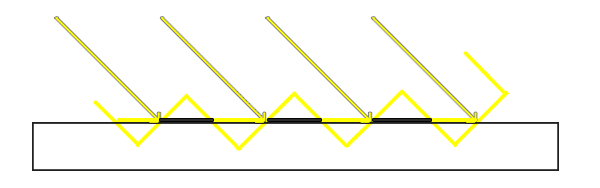
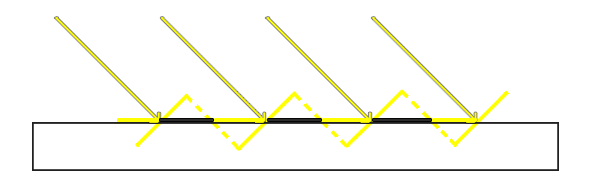
Update 2024-06-18-LearnOpenGL-AdvancedLighting-Shadows-ShadowMapping.md

diff --git a/_posts/2024-06-18-LearnOpenGL-AdvancedLighting-Shadows-ShadowMapping.md b/_posts/2024-06-18-LearnOpenGL-AdvancedLighting-Shadows-ShadowMapping.md
@@ -1,6 +1,6 @@
 ---
 title: Shadow Mapping
-description: 介绍阴影映射基础过程
+description: 阴影是光线被遮挡后在被遮挡区域出现的一种光照缺失的现象。阴影为光照场景增添了许多真实感，使观众更容易观察到物体之间的空间关系。
 date: 2024-06-18 00:00:00 +0800
 categories: [Computer Grahics, LearnOpenGL, AdvancedLighting]
 tags: [computergraphics, learnopengl, postprocess，shadow]     # TAG names should always be lowercase
@@ -398,7 +398,7 @@ With these projected coordinates we can sample the depth map as the resulting [0
 
 有了这个 [0, 1] 范围内的 projCoords，就可以对深度图进行采样。这样，我们就能获得光源视角下最近可见物体片段的深度：
 
-```
+```glsl
 float closestDepth = texture(shadowMap, projCoords.xy).r; 
 ```
 
@@ -454,25 +454,39 @@ If you did things right you should indeed see (albeit with quite a few artifacts
 
 We managed to get the basics of shadow mapping working, but as you can we're not there yet due to several (clearly visible) artifacts related to shadow mapping we need to fix. We'll focus on fixing these artifacts in the next sections.
 
+我们成功地完成了阴影贴图的基础工作，但正如你所看到的，因为存在着与阴影贴图相关的几个（清晰可见的）处理痕迹，所以现在还没有达到期望的效果。我们将在接下来的章节中重点修复这些瑕疵。
+
 ### Shadow acne
 
 It is obvious something is wrong from the previous image. A closer zoom shows us a very obvious Moiré-like pattern:
+
+从上一张图片中可以明显看出问题。近距离放大后，有非常显眼的摩尔纹：
 
 ![Acne](/assets/img/post/LearnOpenGL-AdvancedLighting-Shadows-ShadowMapping-Acne.png)
 
 We can see a large part of the floor quad rendered with obvious black lines in an alternating fashion. This shadow mapping artifact is called shadow acne and can be explained by the following image:
 
+我们可以明显的在四边形地板上看到很大一部分交替呈现的黑色线条。这种阴影映射的人工处理痕迹被称为 "阴影失真"，可以用下面的图片来解释：
+
 ![Acne Diagram](/assets/img/post/LearnOpenGL-AdvancedLighting-Shadows-ShadowMapping-AcneDiagram.png)
 
 Because the shadow map is limited by resolution, multiple fragments can sample the same value from the depth map when they're relatively far away from the light source. The image shows the floor where each yellow tilted panel represents a single texel of the depth map. As you can see, several fragments sample the same depth sample.
 
+因为阴影贴图有分辨率的限制，在距离光源比较远的情况下，多个片段可能从深度贴图的同一个坐标位置采样。上图中每个黄色斜坡代表深度图的一个像素。可以看到，地板上多个片段采样了相同的深度样本。
+
 While this is generally okay, it becomes an issue when the light source looks at an angle towards the surface as in that case the depth map is also rendered from an angle. Several fragments then access the same tilted depth texel while some are above and some below the floor; we get a shadow discrepancy. Because of this, some fragments are considered to be in shadow and some are not, giving the striped pattern from the image.
 
-We can solve this issue with a small little hack called a shadow bias where we simply offset the depth of the surface (or the shadow map) by a small bias amount such that the fragments are not incorrectly considered above the surface.
+虽然一般情况下是正常的，但当光源以一定角度照射表面时就会出现问题，因为在这种情况下，光源视角下的深度贴图也是从这个角度渲染的。这时，深度贴图的分辨率会小于场景实际分辨率，多个片段就会从同一个斜坡的深度纹理像素中采样，这些片段中有一些大于这一深度值，还有一些小于这一深度值。因此，一些片段被判断处于阴影中，而另一些片段则不在阴影中，这就产生了图片中的条纹图案，得到了一个不真实的阴影。
+
+We can solve this issue with a small little hack called a **shadow bias** where we simply offset the depth of the surface (or the shadow map) by a small bias amount such that the fragments are not incorrectly considered above the surface.
+
+我们可以用一个叫做**阴影偏置**的小技巧来解决这个问题，只需将表面的深度偏移一个小的偏置量（给表面片段的深度减去一个偏置，或给采样到的阴影贴图深度加上一个偏执），这样就不会错误地将片段判断在阴影之中。
 
 ![Acne Bias](/assets/img/post/LearnOpenGL-AdvancedLighting-Shadows-ShadowMapping-AcneBias.png)
 
 With the bias applied, all the samples get a depth smaller than the surface's depth and thus the entire surface is correctly lit without any shadows. We can implement such a bias as follows:
+
+应用偏置后，从同一深度纹理像素中采样的那些表面片段其深度都会小于采样到的深度值，因此整个表面都会被正确照亮，不会出现任何阴影。我们可以通过以下方式实现这种偏置：
 
 ```glsl
 float bias = 0.005;
@@ -481,31 +495,45 @@ float shadow = currentDepth - bias > closestDepth  ? 1.0 : 0.0;
 
 A shadow bias of 0.005 solves the issues of our scene by a large extent, but you can imagine the bias value is highly dependent on the angle between the light source and the surface. If the surface would have a steep angle to the light source, the shadows may still display shadow acne. A more solid approach would be to change the amount of bias based on the surface angle towards the light: something we can solve with the dot product:
 
+0.005 的阴影偏置量在很大程度上解决了我们场景中的问题，但可以想象到偏置量主要取决于光线和表面之间的角度。如果光线以非常倾斜的角度照射到表面，那么仍然可能会出现阴影失真。一种更可靠的方法是根据表面与光线的角度来改变偏置量：我们可以利用点积来解决这个问题：
+
 ```glsl
 float bias = max(0.05 * (1.0 - dot(normal, lightDir)), 0.005); 
 ```
 
 Here we have a maximum bias of 0.05 and a minimum of 0.005 based on the surface's normal and light direction. This way, surfaces like the floor that are almost perpendicular to the light source get a small bias, while surfaces like the cube's side-faces get a much larger bias. The following image shows the same scene but now with a shadow bias:
 
+在这里，我们根据表面的法线和光照方向，将偏置最大值设定为 0.05，最小值设定为 0.005。这样，像地板这种几乎垂直于光线的表面就会得到较小的偏置，而像立方体侧面这样的表面就会得到较大的偏置。下图显示了应用阴影偏置后的相同场景：
+
 ![With Bias](/assets/img/post/LearnOpenGL-AdvancedLighting-Shadows-ShadowMapping-WithBias.png)
 
 Choosing the correct bias value(s) requires some tweaking as this will be different for each scene, but most of the time it's simply a matter of slowly incrementing the bias until all acne is removed.
+
+因为每个场景都不尽相同，所以需要进行一些调整才能选出合适的偏置值，在大多数情况下，可以缓慢增加偏置值，直到消除所有失真现象。
 
 ### Peter panning
 
 A disadvantage of using a shadow bias is that you're applying an offset to the actual depth of objects. As a result, the bias may become large enough to see a visible offset of shadows compared to the actual object locations as you can see below (with an exaggerated bias value):
 
+使用阴影偏置的一个缺点是：在实际应该要产生阴影的位置上，因为有偏置的存在，可能导致该位置点被判断为非阴影点。因此，当偏置值变得足够大时，参照物体实际位置，可以明显看到阴影发生了一定的偏移，如下图所示（使用一个夸张的偏置值）：
+
 ![Peter Panning](/assets/img/post/LearnOpenGL-AdvancedLighting-Shadows-ShadowMapping-PeterPanning.png)
 
 This shadow artifact is called peter panning since objects seem slightly detached from their shadows. We can use a little trick to solve most of the peter panning issue by using front face culling when rendering the depth map. You may remember from the [face culling](https://learnopengl.com/Advanced-OpenGL/Face-Culling) chapter that OpenGL by default culls back-faces. By telling OpenGL we want to cull front faces during the shadow map stage we're switching that order around.
 
+这种阴影位置偏移现象被称为彼得平移，因为物体看起来与它们的阴影稍有分离。我们可以使用一个小技巧来解决大部分的彼得平移问题，那就是在渲染深度贴图时使用正面剔除。你可能还记得，在[面剔除](https://learnopengl.com/Advanced-OpenGL/Face-Culling)一章中，OpenGL 默认剔除的是背面。通过在生成阴影贴图的阶段告诉 OpenGL 剔除正面，我们就可以切换这一面剔除顺序。
+
 Because we only need depth values for the depth map it shouldn't matter for solid objects whether we take the depth of their front faces or their back faces. Using their back face depths doesn't give wrong results as it doesn't matter if we have shadows inside objects; we can't see there anyways.
+
+因为我们只需要深度图的深度值，所以对于实体物体来说，是取其正面的深度还是背面的深度并不重要。使用物体背面的深度并不会产生错误的结果，因为物体内部是否有阴影并不重要，反正我们也看不到。
 
 ![Without Culling](/assets/img/post/LearnOpenGL-AdvancedLighting-Shadows-ShadowMapping-WithoutCulling.png)
 
 ![With Culling](/assets/img/post/LearnOpenGL-AdvancedLighting-Shadows-ShadowMapping-WithCulling.png)
 
 To fix peter panning we cull all front faces during the shadow map generation. Note that you need to enable GL_CULL_FACE first.
+
+为了解决彼得平移问题，我们会在生成阴影贴图时剔除所有正面。请注意，你需要先启用 GL_CULL_FACE。
 
 ```glsl
 glCullFace(GL_FRONT);
@@ -515,19 +543,29 @@ glCullFace(GL_BACK); // don't forget to reset original culling face
 
 This effectively solves the peter panning issues, but only for solid objects that actually have an inside without openings. In our scene for example, this works perfectly fine on the cubes. However, on the floor it won't work as well as culling the front face completely removes the floor from the equation. The floor is a single plane and would thus be completely culled. If one wants to solve peter panning with this trick, care has to be taken to only cull the front faces of objects where it makes sense.
 
+这可以有效解决彼得平移问题，但只适用于拥有封闭内部的实体物体。例如，在我们的场景中，这对立方体完全有效。但是，在地板上就不行了，因为剔除正面后，地板就完全不存在了。地板是一个平面，因此会被完全删除。如果想用这一技巧解决彼得平移问题，就必须注意只在有意义的地方去使用正面剔除。
+
 Another consideration is that objects that are close to the shadow receiver (like the distant cube) may still give incorrect results. However, with normal bias values you can generally avoid peter panning.
+
+另一个要考虑的点是，靠近阴影接收器的物体（如远处的立方体）可能仍然会产生不正确的结果。不过，如果使用恰当的偏置值，一般可以避免彼得平移。
 
 ### Over sampling
 
 Another visual discrepancy which you may like or dislike is that regions outside the light's visible frustum are considered to be in shadow while they're (usually) not. This happens because projected coordinates outside the light's frustum are higher than 1.0 and will thus sample the depth texture outside its default range of [0,1]. Based on the texture's wrapping method, we will get incorrect depth results not based on the real depth values from the light source.
 
+另一个与现实情况不一致的视觉差异是，光源可见视锥体以外的区域被看作位于阴影当中，但实际上它们（通常）并不是。出现这种问题的原因是，光源视锥体之外的投影坐标大于 1.0，使用这样的坐标去采样深度纹理，会超出其默认的 [0, 1] 范围。根据纹理的环绕方式，我们会得到不正确的深度结果，而不是基于光源的真实深度值。
+
 ![Outside Frustum](/assets/img/post/LearnOpenGL-AdvancedLighting-Shadows-ShadowMapping-OutsideFrustum.png)
 
 You can see in the image that there is some sort of imaginary region of light, and a large part outside this area is in shadow; this area represents the size of the depth map projected onto the floor. The reason this happens is that we earlier set the depth map's wrapping options to GL_REPEAT.
 
+从图像中可以看到，光照辐射了一个区域，而该区域外的很大一部分处于阴影中；该区域代表了投射到地板上的深度贴图的大小。出现这种情况的原因是我们之前将深度贴图的环绕方式设置为了 GL_REPEAT。
+
 What we'd rather have is that all coordinates outside the depth map's range have a depth of 1.0 which as a result means these coordinates will never be in shadow (as no object will have a depth larger than 1.0). We can do this by configuring a texture border color and set the depth map's texture wrap options to GL_CLAMP_TO_BORDER:
 
-```c
+我们更希望深度贴图范围之外的所有坐标的深度都是 1.0，这意味着这些坐标永远不会出现在阴影中（因为没有物体的深度会大于 1.0）。我们可以通过配置纹理边框颜色并将深度贴图的纹理环绕方式设置为 GL_CLAMP_TO_BORDER 来实现这一点：
+
+```c++
 glTexParameteri(GL_TEXTURE_2D, GL_TEXTURE_WRAP_S, GL_CLAMP_TO_BORDER);
 glTexParameteri(GL_TEXTURE_2D, GL_TEXTURE_WRAP_T, GL_CLAMP_TO_BORDER);
 float borderColor[] = { 1.0f, 1.0f, 1.0f, 1.0f };
@@ -536,6 +574,8 @@ glTexParameterfv(GL_TEXTURE_2D, GL_TEXTURE_BORDER_COLOR, borderColor);
 
 Now whenever we sample outside the depth map's [0,1] coordinate range, the texture function will always return a depth of 1.0, producing a shadow value of 0.0. The result now looks more plausible:
 
+现在，每当我们在深度图的 [0, 1] 坐标范围外采样时，纹理采样函数将始终返回 1.0 的深度，从而产生 0.0 的阴影值。现在的结果看起来更合理了：
+
 ![Clamp Edge](/assets/img/post/LearnOpenGL-AdvancedLighting-Shadows-ShadowMapping-ClampEdge.png)
 
 > 在计算片段是否是阴影点时，若该片段是以光源为视角的视图体范围之外的场景片段，那么其在光源视图体内裁剪坐标是超出 [-w, w] 范围之外的（正射视图 w = 1.0），从光源视角的场景深度图采样深度值的时候，裁剪坐标转换到纹理坐标会超出 [0.0, 1.0] 范围之外，超出纹理范围之外 OpenGL 默认的行为是重复这个纹理图像进行采样，光源视图体区域外就会有一些地方显示阴影不正确的情况。其实在以光源为视角的视图体范围之外的片段应该处理为非阴影点，所以我们更希望所有超出深度图范围的坐标的采样返回值是 1.0，因此可以设置纹理边框颜色 z 分量为 1.0，并设置纹理环绕方式为超出坐标为用户指定的边缘颜色 GL_CLAMP_TO_BORDER。这一步限制的是采样深度图后返回的深度值。
@@ -543,11 +583,17 @@ Now whenever we sample outside the depth map's [0,1] coordinate range, the textu
 
 There seems to still be one part showing a dark region. Those are the coordinates outside the far plane of the light's orthographic frustum. You can see that this dark region always occurs at the far end of the light source's frustum by looking at the shadow directions.
 
+似乎仍有一部分显示为黑暗区域。这些是光源正交视锥体远平面外的坐标。通过阴影方向可以看到，这个黑暗区域总是出现在光源视锥体的远端。
+
 A light-space projected fragment coordinate is further than the light's far plane when its z coordinate is larger than 1.0. In that case the GL_CLAMP_TO_BORDER wrapping method doesn't work anymore as we compare the coordinate's z component with the depth map values; this always returns true for z larger than 1.0.
+
+当片段被投影到光源空间后，如果它的坐标的 z 分量大于 1.0，该坐标会比光源的远平面更远。在这种情况下，GL_CLAMP_TO_BORDER 环绕方式将不再起作用，因为我们要将坐标的 z 分量与深度贴图中的深度值进行比较；当 z 大于 1.0 时，返回值总是 true。
 
 The fix for this is also relatively easy as we simply force the shadow value to 0.0 whenever the projected vector's z coordinate is larger than 1.0:
 
-```c
+解决这个问题的方法也比较简单，只要投影向量的 z 坐标大于 1.0，我们就可以将阴影值强制设置为 0.0：
+
+```glsl
 float ShadowCalculation(vec4 fragPosLightSpace)
 {
     [...]
@@ -560,9 +606,13 @@ float ShadowCalculation(vec4 fragPosLightSpace)
 
 Checking the far plane and clamping the depth map to a manually specified border color solves the over-sampling of the depth map. This finally gives us the result we are looking for:
 
+检查远平面并将深度贴图限制到手动指定的边界颜色，可以解决深度图过度采样的问题。最终，我们得到了想要的结果：
+
 ![OverSampling Fixed](/assets/img/post/LearnOpenGL-AdvancedLighting-Shadows-ShadowMapping-OverSamplingFixed.png)
 
 The result of all this does mean that we only have shadows where the projected fragment coordinates sit inside the depth map range so anything outside the light frustum will have no visible shadows.
+
+这样做的结果是，只有当投影片段坐标位于深度图范围内时，我们才会产生阴影，因此在光源视锥体范围之外的任何东西都不会产生可见的阴影。
 
 > 在计算片段是否是阴影点时，若该片段是以光源为视角的视图体范围之外的场景片段，那么其在光源视图体内裁剪坐标是超出 [-w, w] 范围之外的（正射视图 w = 1.0），归一化深度值也是大于 1.0 的。其实在以光源为视角的视图体范围之外的片段应该处理为非阴影点，所以我们在光源视图体内片段的裁剪坐标深度值大于 w.0 时直接认定为非阴影点。这一步限制的是片段在光源视图体内深度值。
 {: .prompt-tip }
